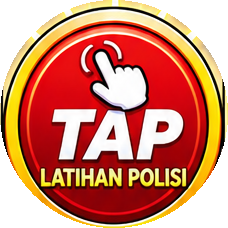
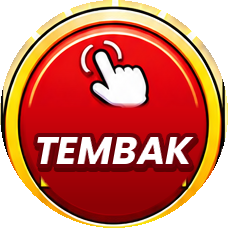
Latihan polisi: tombol TAP jadi TEMBAK; warga belum polisi bisa buka latihan, tap memunculkan 'Kamu Belum Menjadi Polisi' + tombol Daftar
Claude-Session: https://claude.ai/code/session_012X9z3hKZkyQJmPUmPxHL19

Changed region(s): [[0.0921, 0.4298, 0.8904, 0.9518]]

diff --git a/index.html b/index.html
@@ -4516,7 +4516,7 @@ function pp2HTML(){ const me = AKUN.u, S = POLP.saya, px = (x)=>(x / 10.24).toFi
     <span class="o xlv" id="ppLv"></span><span class="o xpkn" id="ppNm"></span><span class="o xto" id="ppTo"></span>
     <i class="xfill" id="ppBar" style="width:0%"></i><span class="o xbt" id="ppBt"></span><span class="o xpc" id="ppPc"></span>
     <span class="o xst" style="top:54.1%;left:9.6%;right:auto;text-align:left" id="ppHari"></span><span class="o xst" style="top:57.68%;left:9.6%;right:auto;text-align:left" id="ppTot"></span><span class="o xst" style="top:62.45%;left:16.45%;right:auto;transform:translate(-50%,-50%);text-align:center;font-size:2.7cqw" id="ppRank"></span>
-    <button class="tapb" id="ppTap" aria-label="Tap Latihan Polisi"><img src="assets/polisi-tap.png?v=1120" alt="TAP"></button>
+    <button class="tapb" id="ppTap" aria-label="Tembak"><img src="assets/polisi-tap.png?v=1122t" alt="TEMBAK"></button>
     <div class="xrk" id="ppRk"></div>
     <button class="hs" data-pp-semua style="left:59.3%;top:63.9%;width:32.5%;height:2.7%;border-radius:999px" aria-label="Lihat Peringkat Lengkap"></button>
     <i class="xcur" id="ppCur"></i>${PP2_X.map((x, i)=>`<span class="xsy" id="ppSy${i}" style="left:${px(x)}"></span>`).join('')}
@@ -4540,12 +4540,16 @@ function polRender2(){ const o = POLP.ov; if (!o) return; const q = s=>o.querySe
   if (lv !== POLP.lvLama){ if (POLP.lvLama != null && lv > POLP.lvLama){ polNaikPop(POLP.lvLama, lv); polisiSet(me, S.g, lv); }
     POLP.lvLama = lv; } }
 function polBangun(){ const ov = POLP.ov; if (!ov) return; const masuk = !!(AKUN.u && AKUN.s), me = AKUN.u, S = POLP.saya;
-  if (masuk && S && POLP.mode !== 'daftar'){ ov.innerHTML = pp2HTML(); POLP.lvLama = polisiLv(polTotal()); ov.dataset.s = '1'; polRender2(); tembakMulai(); latMusikMulai();
+  if (masuk && (S || POLP.mode === 'latihan') && POLP.mode !== 'daftar'){ ov.innerHTML = pp2HTML(); POLP.lvLama = polisiLv(polTotal()); ov.dataset.s = S ? '1' : '0'; polRender2(); tembakMulai(); latMusikMulai();
     if (me === 'julianto_jul'){ const art = ov.querySelector('.pp2 .art');   // Admin: ketuk kartu pangkat untuk melihat ucapan naik pangkat
       PP2_K.forEach((k, i)=>{ const h = document.createElement('button'); h.className = 'hs'; h.title = 'Admin: lihat ucapan Lv ' + (i + 1); h.style.cssText = `left:${(k[0]/10.24).toFixed(2)}%;top:70.5%;width:${((k[1]-k[0])/10.24).toFixed(2)}%;height:20.9%;border-radius:1.6cqw;z-index:6`;
         h.addEventListener('click', ()=>polNaikPop(i, i + 1)); art.appendChild(h); });
       const h0 = document.createElement('button'); h0.className = 'hs'; h0.title = 'Admin: lihat ucapan Lv 0'; h0.style.cssText = 'left:6%;top:38.6%;width:12%;height:8.6%;z-index:6'; h0.addEventListener('click', ()=>polNaikPop(-1, 0)); art.appendChild(h0); }
     const tb = ov.querySelector('#ppTap'), tap = e=>{ e.preventDefault(); const kini = performance.now(); if (kini - (POLP.last || 0) < 500) return; POLP.last = kini;   // jeda 0,5 detik per tap/tembakan
+      if (!POLP.saya){ const art = ov.querySelector('.pp2 .art'); if (art && !art.querySelector('.blmPol')){ const m = document.createElement('div'); m.className = 'blmPol';   // belum terdaftar: tidak menembak, arahkan ke daftar
+        m.style.cssText = 'position:absolute;left:50%;top:46%;transform:translate(-50%,-50%);z-index:20;width:72%;background:#fffaf0;border:4px solid #c9a227;border-radius:18px;padding:16px 14px;text-align:center;box-shadow:0 10px 30px rgba(0,0,0,.5);font-family:inherit';
+        m.innerHTML = '<div style="font-size:38px;line-height:1">👮</div><div style="font-size:18px;font-weight:800;color:#7a0a12;margin:8px 0 12px">Kamu Belum Menjadi Polisi</div><button class="btnD" data-pp-kedaftar style="width:100%">📝 Daftar</button>';
+        art.appendChild(m); } return; }
       tembak(); tb.classList.add('on'); setTimeout(()=>tb.classList.remove('on'), 110); POLP.pending++; const p = document.createElement('span'); p.className = 'plus'; p.textContent = '+1'; tb.appendChild(p); setTimeout(()=>p.remove(), 800);
       polRender2(); if (POLP.pending >= 10) polKirim(); };
     tb.addEventListener('pointerdown', tap); ov.querySelector('[data-tb-hit]').addEventListener('pointerdown', tap);
@@ -8236,6 +8240,6 @@ loop();
 })();
 
 </script>
-<div id="verTag" style="position:fixed;left:6px;bottom:4px;z-index:5;font:600 10px system-ui,sans-serif;color:#fff;background:#0007;border-radius:6px;padding:2px 6px;pointer-events:none">versi 22 Nov 12:52</div>
+<div id="verTag" style="position:fixed;left:6px;bottom:4px;z-index:5;font:600 10px system-ui,sans-serif;color:#fff;background:#0007;border-radius:6px;padding:2px 6px;pointer-events:none">versi 22 Nov 13:00</div>
 </body>
 </html>

diff --git a/uji-siang-malam.html b/uji-siang-malam.html
@@ -4537,7 +4537,7 @@ function pp2HTML(){ const me = AKUN.u, S = POLP.saya, px = (x)=>(x / 10.24).toFi
     <span class="o xlv" id="ppLv"></span><span class="o xpkn" id="ppNm"></span><span class="o xto" id="ppTo"></span>
     <i class="xfill" id="ppBar" style="width:0%"></i><span class="o xbt" id="ppBt"></span><span class="o xpc" id="ppPc"></span>
     <span class="o xst" style="top:54.1%;left:9.6%;right:auto;text-align:left" id="ppHari"></span><span class="o xst" style="top:57.68%;left:9.6%;right:auto;text-align:left" id="ppTot"></span><span class="o xst" style="top:62.45%;left:16.45%;right:auto;transform:translate(-50%,-50%);text-align:center;font-size:2.7cqw" id="ppRank"></span>
-    <button class="tapb" id="ppTap" aria-label="Tap Latihan Polisi"><img src="assets/polisi-tap.png?v=1120" alt="TAP"></button>
+    <button class="tapb" id="ppTap" aria-label="Tembak"><img src="assets/polisi-tap.png?v=1122t" alt="TEMBAK"></button>
     <div class="xrk" id="ppRk"></div>
     <button class="hs" data-pp-semua style="left:59.3%;top:63.9%;width:32.5%;height:2.7%;border-radius:999px" aria-label="Lihat Peringkat Lengkap"></button>
     <i class="xcur" id="ppCur"></i>${PP2_X.map((x, i)=>`<span class="xsy" id="ppSy${i}" style="left:${px(x)}"></span>`).join('')}
@@ -4561,12 +4561,16 @@ function polRender2(){ const o = POLP.ov; if (!o) return; const q = s=>o.querySe
   if (lv !== POLP.lvLama){ if (POLP.lvLama != null && lv > POLP.lvLama){ polNaikPop(POLP.lvLama, lv); polisiSet(me, S.g, lv); }
     POLP.lvLama = lv; } }
 function polBangun(){ const ov = POLP.ov; if (!ov) return; const masuk = !!(AKUN.u && AKUN.s), me = AKUN.u, S = POLP.saya;
-  if (masuk && S && POLP.mode !== 'daftar'){ ov.innerHTML = pp2HTML(); POLP.lvLama = polisiLv(polTotal()); ov.dataset.s = '1'; polRender2(); tembakMulai(); latMusikMulai();
+  if (masuk && (S || POLP.mode === 'latihan') && POLP.mode !== 'daftar'){ ov.innerHTML = pp2HTML(); POLP.lvLama = polisiLv(polTotal()); ov.dataset.s = S ? '1' : '0'; polRender2(); tembakMulai(); latMusikMulai();
     if (me === 'julianto_jul'){ const art = ov.querySelector('.pp2 .art');   // Admin: ketuk kartu pangkat untuk melihat ucapan naik pangkat
       PP2_K.forEach((k, i)=>{ const h = document.createElement('button'); h.className = 'hs'; h.title = 'Admin: lihat ucapan Lv ' + (i + 1); h.style.cssText = `left:${(k[0]/10.24).toFixed(2)}%;top:70.5%;width:${((k[1]-k[0])/10.24).toFixed(2)}%;height:20.9%;border-radius:1.6cqw;z-index:6`;
         h.addEventListener('click', ()=>polNaikPop(i, i + 1)); art.appendChild(h); });
       const h0 = document.createElement('button'); h0.className = 'hs'; h0.title = 'Admin: lihat ucapan Lv 0'; h0.style.cssText = 'left:6%;top:38.6%;width:12%;height:8.6%;z-index:6'; h0.addEventListener('click', ()=>polNaikPop(-1, 0)); art.appendChild(h0); }
     const tb = ov.querySelector('#ppTap'), tap = e=>{ e.preventDefault(); const kini = performance.now(); if (kini - (POLP.last || 0) < 500) return; POLP.last = kini;   // jeda 0,5 detik per tap/tembakan
+      if (!POLP.saya){ const art = ov.querySelector('.pp2 .art'); if (art && !art.querySelector('.blmPol')){ const m = document.createElement('div'); m.className = 'blmPol';   // belum terdaftar: tidak menembak, arahkan ke daftar
+        m.style.cssText = 'position:absolute;left:50%;top:46%;transform:translate(-50%,-50%);z-index:20;width:72%;background:#fffaf0;border:4px solid #c9a227;border-radius:18px;padding:16px 14px;text-align:center;box-shadow:0 10px 30px rgba(0,0,0,.5);font-family:inherit';
+        m.innerHTML = '<div style="font-size:38px;line-height:1">👮</div><div style="font-size:18px;font-weight:800;color:#7a0a12;margin:8px 0 12px">Kamu Belum Menjadi Polisi</div><button class="btnD" data-pp-kedaftar style="width:100%">📝 Daftar</button>';
+        art.appendChild(m); } return; }
       tembak(); tb.classList.add('on'); setTimeout(()=>tb.classList.remove('on'), 110); POLP.pending++; const p = document.createElement('span'); p.className = 'plus'; p.textContent = '+1'; tb.appendChild(p); setTimeout(()=>p.remove(), 800);
       polRender2(); if (POLP.pending >= 10) polKirim(); };
     tb.addEventListener('pointerdown', tap); ov.querySelector('[data-tb-hit]').addEventListener('pointerdown', tap);
@@ -8257,6 +8261,6 @@ loop();
 })();
 
 </script>
-<div id="verTag" style="position:fixed;left:6px;bottom:4px;z-index:5;font:600 10px system-ui,sans-serif;color:#fff;background:#0007;border-radius:6px;padding:2px 6px;pointer-events:none">versi 22 Nov 12:52</div>
+<div id="verTag" style="position:fixed;left:6px;bottom:4px;z-index:5;font:600 10px system-ui,sans-serif;color:#fff;background:#0007;border-radius:6px;padding:2px 6px;pointer-events:none">versi 22 Nov 13:00</div>
 </body>
 </html>
